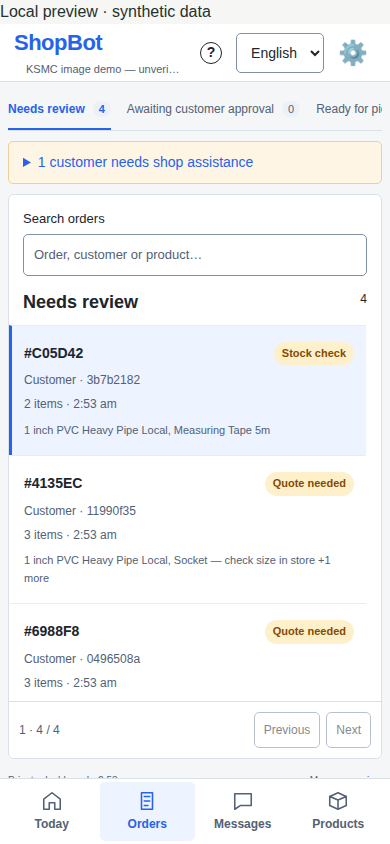
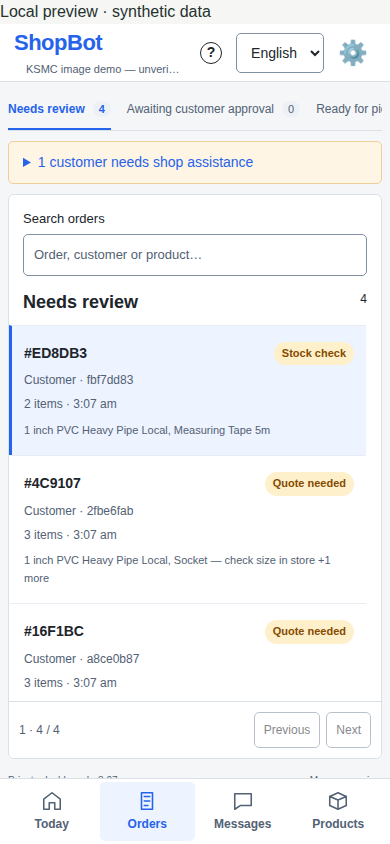
Seed coherent pickup examples for owner training

diff --git a/02-Build/shopbot-ai/scripts/owner-usability-preview.ts b/02-Build/shopbot-ai/scripts/owner-usability-preview.ts
@@ -4,22 +4,29 @@ import pg from 'pg';
 import {setupDatabase} from '../apps/server/src/db/migrate.js';
 import {setupImageDemo,demoCatalogStore} from '../apps/server/src/services/demo-catalog.js';
 import {createApp} from '../apps/server/src/http/app.js';
+import {reserveRequest,closeRequestStock} from '../apps/server/src/services/inventory.js';
+import type {DraftLine} from '../packages/contracts/index.js';
 
 // Isolated local rehearsal only. The real owner app retains Access JWT checks.
 // Injected identity exists solely inside this disposable loopback harness.
 const databaseUrl=process.env.DATABASE_URL,port=Number(process.env.PORT??3043);
 if(!databaseUrl||!['127.0.0.1','localhost','[::1]'].includes(new URL(databaseUrl).hostname))throw new Error('Use a disposable local DATABASE_URL.');
-const schema='owner_usability_'+randomUUID().replaceAll('-',''),admin=new pg.Pool({connectionString:databaseUrl});await admin.query(`CREATE SCHEMA ${schema}`);
+const schema='owner_usability_'+randomUUID().replaceAll('-',''),admin=new pg.Pool({connectionString:databaseUrl});if((await admin.query('SHOW server_encoding')).rows[0].server_encoding!=='UTF8'){await admin.end();throw new Error('Use a UTF8 disposable PostgreSQL database for Tamil preview data.');}await admin.query(`CREATE SCHEMA ${schema}`);
 const pool=new pg.Pool({connectionString:databaseUrl,options:`-c search_path=${schema}`});
 await setupDatabase(pool,'mock');await setupImageDemo(pool);
 // Synthetic conversations and orders cover daily task stages without channel credentials.
+const catalog=(await pool.query("SELECT sku,name,unit,price_paise,version FROM products WHERE store_id=$1 AND sku IN ('H01','H20')",[demoCatalogStore])).rows;
+const example=(sku:string):DraftLine=>{const product=catalog.find(row=>row.sku===sku)!;return {id:randomUUID(),query:product.name,name:product.name,sku,productVersion:product.version,quantity:sku==='H01'?2:1,unit:product.unit,pricePaise:product.price_paise,resolution:'matched'};};
 for(let index=0;index<6;index++){
  const conversation=randomUUID(),order=randomUUID();
  await pool.query("INSERT INTO conversations(id,store_id,actor,reply_language,handoff_requested) VALUES($1,$2,$3,'ta',$4)",[conversation,demoCatalogStore,'preview-shopper-'+(index+1),index===0]);
  await pool.query("INSERT INTO messages(id,conversation_id,direction,text,status) VALUES($1,$2,'inbound',$3,'processed')",[randomUUID(),conversation,index===0?'Can the shop help me check this list?':'Please prepare two PVC pipes and one measuring tape.']);
  const complete=index>=3;
- const lines=[{id:randomUUID(),query:'1 inch PVC pipe',name:'1 inch PVC Heavy Pipe Local',sku:'H01',productVersion:1,quantity:2,unit:'piece',pricePaise:2500,resolution:'matched'},...(!complete?[{id:randomUUID(),query:'socket',name:'Socket — check size in store',quantity:2,unit:'piece',resolution:'unavailable'}]:[]),{id:randomUUID(),query:'Measuring tape',name:'Measuring Tape 5m',sku:'H20',productVersion:1,quantity:1,unit:'piece',pricePaise:2500,resolution:'matched'}];
- await pool.query("INSERT INTO order_requests(id,store_id,conversation_id,actor,review_id,lines,total_paise,estimate_complete,acceptance,fulfillment) VALUES($1,$2,$3,$4,$5,$6,7500,$7,$8,$9)",[order,demoCatalogStore,conversation,'preview-shopper-'+(index+1),randomUUID(),JSON.stringify(lines),complete,index>=4?'accepted':'awaiting_approval',index===4?'ready_for_pickup':index===5?'collected':'awaiting_approval']);
+ const lines:DraftLine[]=[example('H01'),...(!complete?[{id:randomUUID(),query:'socket',name:'Socket — check size in store',quantity:2,unit:'piece',resolution:'unavailable' as const}]:[]),example('H20')];
+ const total=lines.reduce((sum,line)=>sum+(line.pricePaise??0)*(line.quantity??0),0);
+ await pool.query("INSERT INTO order_requests(id,store_id,conversation_id,actor,review_id,lines,total_paise,estimate_complete,acceptance,fulfillment,packed_revision) VALUES($1,$2,$3,$4,$5,$6,$7,$8,$9,$10,$11)",[order,demoCatalogStore,conversation,'preview-shopper-'+(index+1),randomUUID(),JSON.stringify(lines),total,complete,index>=4?'accepted':'awaiting_approval',index===4?'ready_for_pickup':index===5?'collected':'awaiting_approval',index>=4?1:null]);
+ if(index>=4){const client=await pool.connect();try{await client.query('BEGIN');await reserveRequest(client,demoCatalogStore,order,lines,1,'synthetic-owner');if(index===5)await closeRequestStock(client,demoCatalogStore,order,'collect','synthetic-owner');await client.query('COMMIT');}catch(error){await client.query('ROLLBACK');throw error;}finally{client.release();}}
+
 }
 const owner={hostname:'offline-owner.example.test',issuer:'https://offline.cloudflareaccess.com',audience:'offline-only',email:'offline-owner@example.test',storeId:demoCatalogStore};
 const app=await createApp({mode:'mock',databaseUrl,host:'127.0.0.1',port,mediaDir:'/tmp/shopbot-owner-usability-preview',owner},pool,undefined,undefined,async()=>({email:owner.email,subject:'offline-only'}));

diff --git a/03-Output/workflow-check-20261021/README.md b/03-Output/workflow-check-20261021/README.md
@@ -2,7 +2,7 @@
 
 21 October 2026. Follow-up to the dashboard usability candidate. [Function-by-function matrix](FUNCTION-MATRIX.md) · [Short operator teaching guide](OPERATOR-GUIDE.md) · [Verification record](VERIFICATION.json).
 
-The complete automated suite passes **842/842, zero skipped** on UTF-8 PostgreSQL. Build/typecheck, four Python catalog checks and expanded browser workflows pass. A separate real local API run verifies the built application against an isolated synthetic database. No live customer messages, AI calls or money transfers were made.
+The complete automated suite passes **842/842, zero skipped** on UTF-8 PostgreSQL. Build/typecheck, four Python catalog checks and expanded browser workflows pass. A separate real local API run verifies the built application against an isolated synthetic database, including acceptance, readiness, collection and real stock holds. No live customer messages, AI calls or money transfers were made.
 
 ## Workflow problems fixed
 
@@ -15,6 +15,8 @@ The complete automated suite passes **842/842, zero skipped** on UTF-8 PostgreSQ
 7. Receipt and refund could share one input value. They now have separate fields; recording a refund requires its actual reference and explains that it does not send money.
 8. Offered quotes could say sent even when WhatsApp was unavailable. The banner now says saved/awaiting approval, and a lost send response can recover the recorded quote without claiming delivery.
 9. An unconnected chat could foreground a closed reply window instead of the disabled channel. The blocked composer now names disabled sending first.
+
+The practice data now uses actual demo-catalog prices/totals and the real inventory services to create accepted/collected examples. This avoids teaching with status labels that have no matching stock holds. The preview refuses a SQL_ASCII database before creating its schema.
 
 The **? Quick help** button adds optional English/Tamil instructions for quoting, pickup, price/stock and customer replies. Each guide can open the correct task. It does not add a mandatory tour or extra daily-work step. [Phone help screenshot](evidence/tasks/quick-help-phone.png).
 

diff --git a/03-Output/workflow-check-20261021/FUNCTION-MATRIX.md b/03-Output/workflow-check-20261021/FUNCTION-MATRIX.md
@@ -15,7 +15,7 @@ The complete UTF-8 PostgreSQL suite passes **842/842, with zero skipped tests**.
 | Durable quote draft, navigation, reload, revision conflict | `owner-quote-workbench`, order browser, real local API | Pass; saved values recover; stale writes are rejected. |
 | Quote send acknowledgement loss / current quote recovery | Order browser loses the committed quote response; `owner-quote-workbench` idempotency/version guards | Pass; the authoritative offered quote recovers the same attempt. Does not claim WhatsApp delivery. |
 | Offered/expired quote, customer approval and notification retry | `owner-quote-workbench`, customer payment/channel suite | Pass; approval and notification are separate. |
-| Acceptance, stock hold, packing, ready, collection | Order browser, `owner-fulfillment`, `stock-reservations`, `customer-payment-channel` | Pass with fake channel; collection deducts once, and does not record payment. |
+| Acceptance, stock hold, packing, ready, collection | Order browser, real local API, `owner-fulfillment`, `stock-reservations`, `customer-payment-channel` | Pass with fake channel; collection deducts once, and does not record payment. |
 | Customer amendment, re-quote and cancellation | `owner-quote-workbench`, customer payment/channel suite; cancellation browser | Pass; cancellation now names the action and confirms its effect. |
 | Advance receipt verification, pay-at-shop and refund recording | `customer-payment-channel`, `payments`, dashboard browser | Pass with synthetic bank references; refund field cannot reuse the receipt field. No live money movement tested. |
 | Signed payment provider events, duplicate/late captures and pending refunds | `payments` | Pass using mocked provider evidence. Actual provider/bank integration remains a separate gate. |
